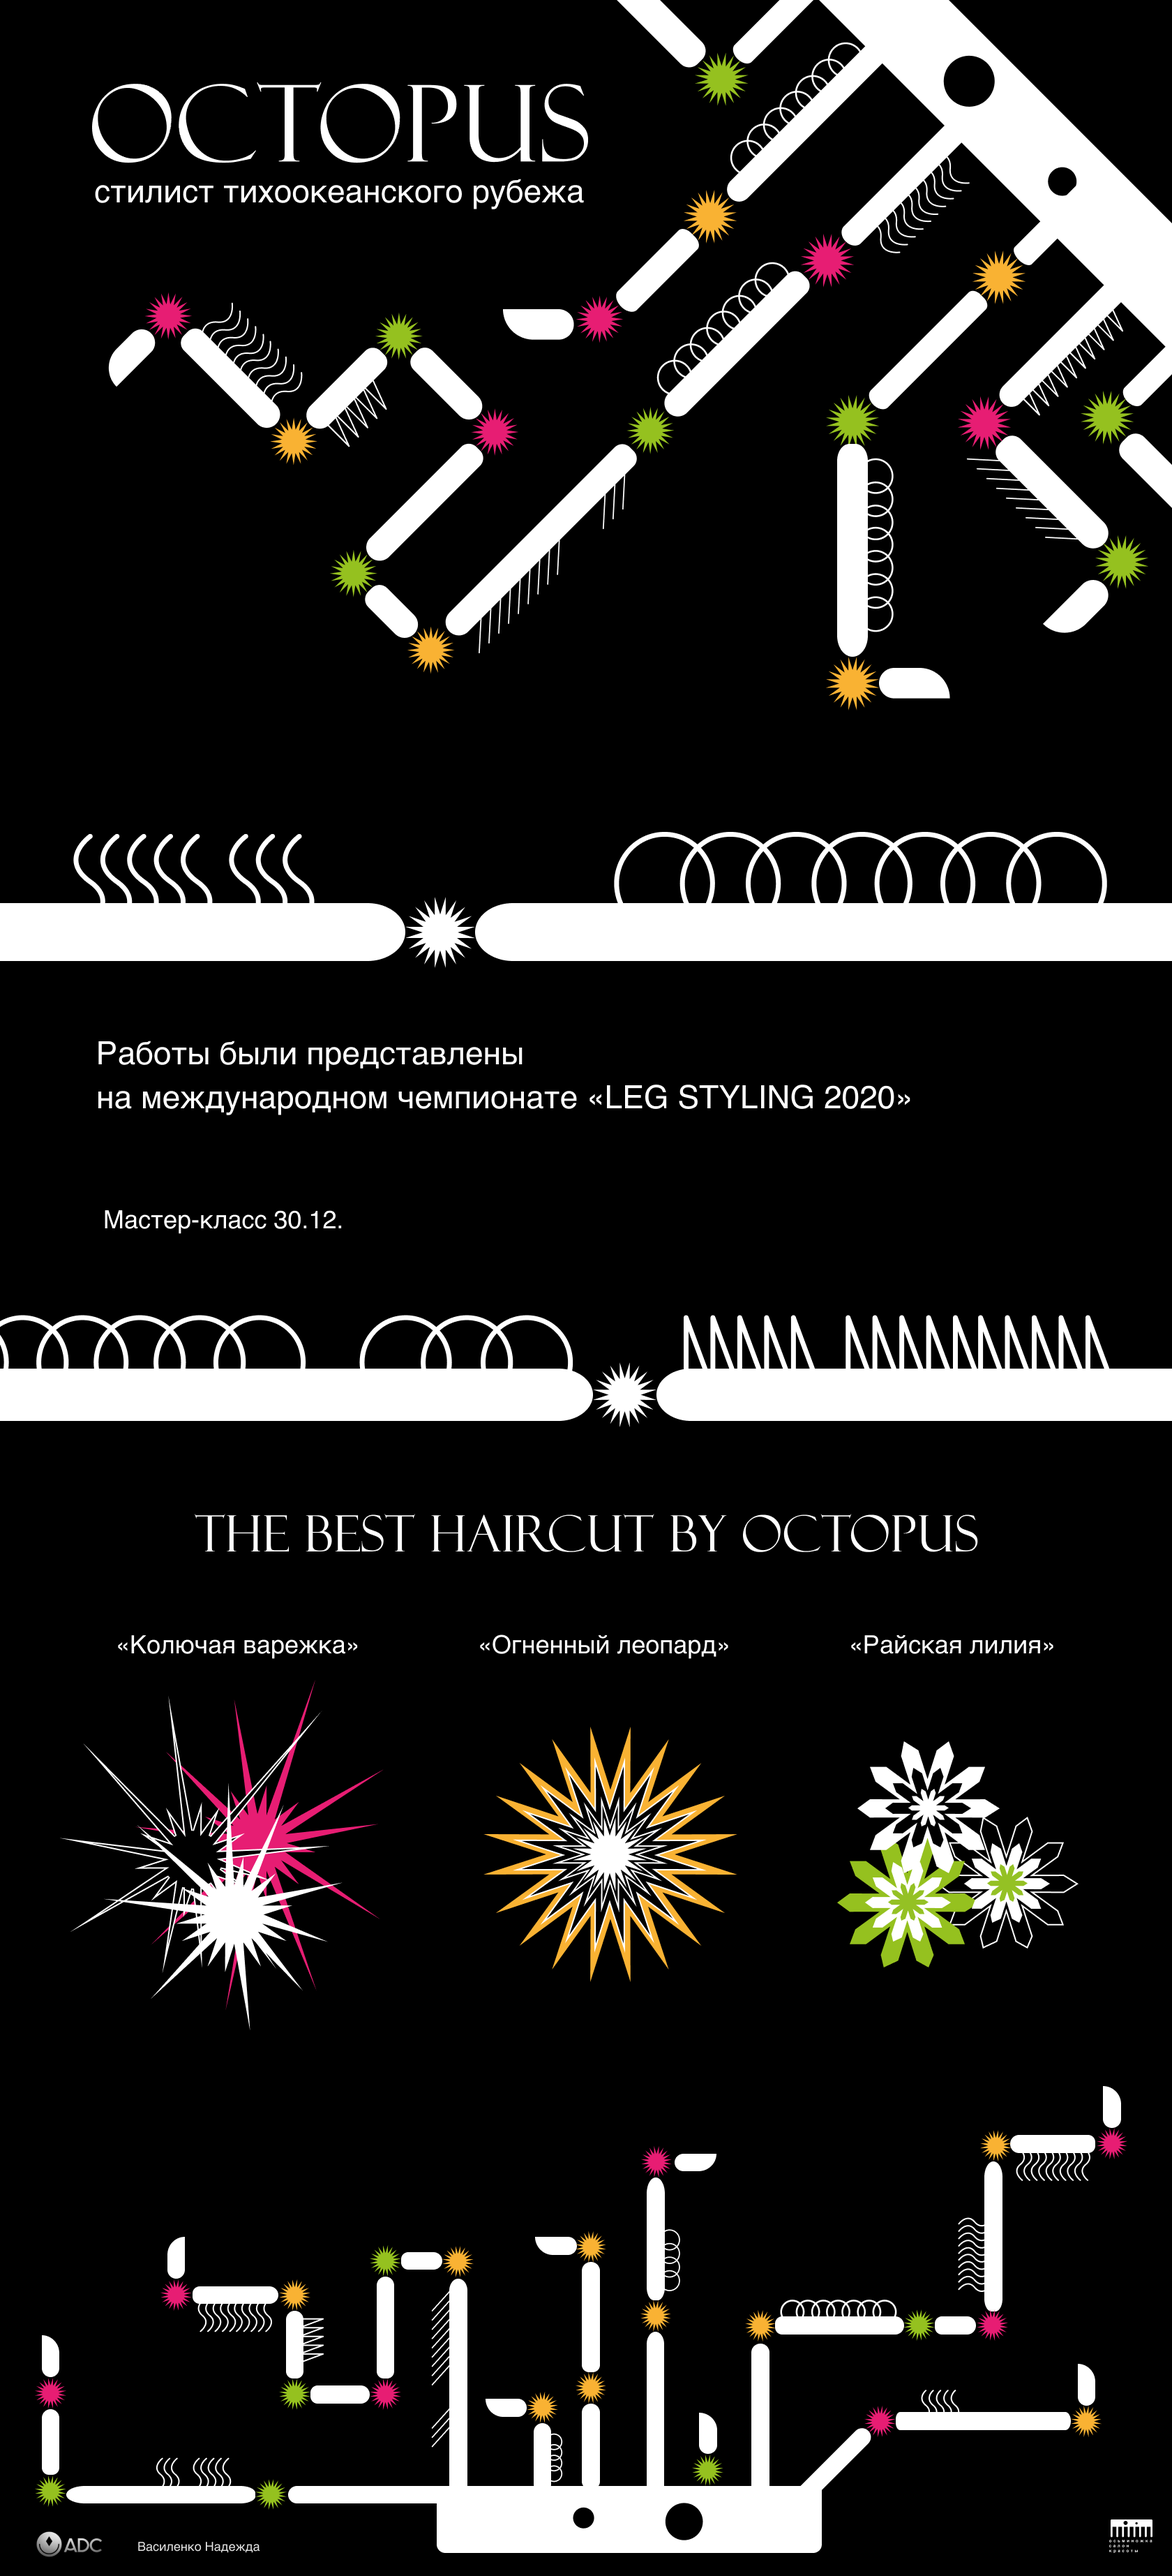
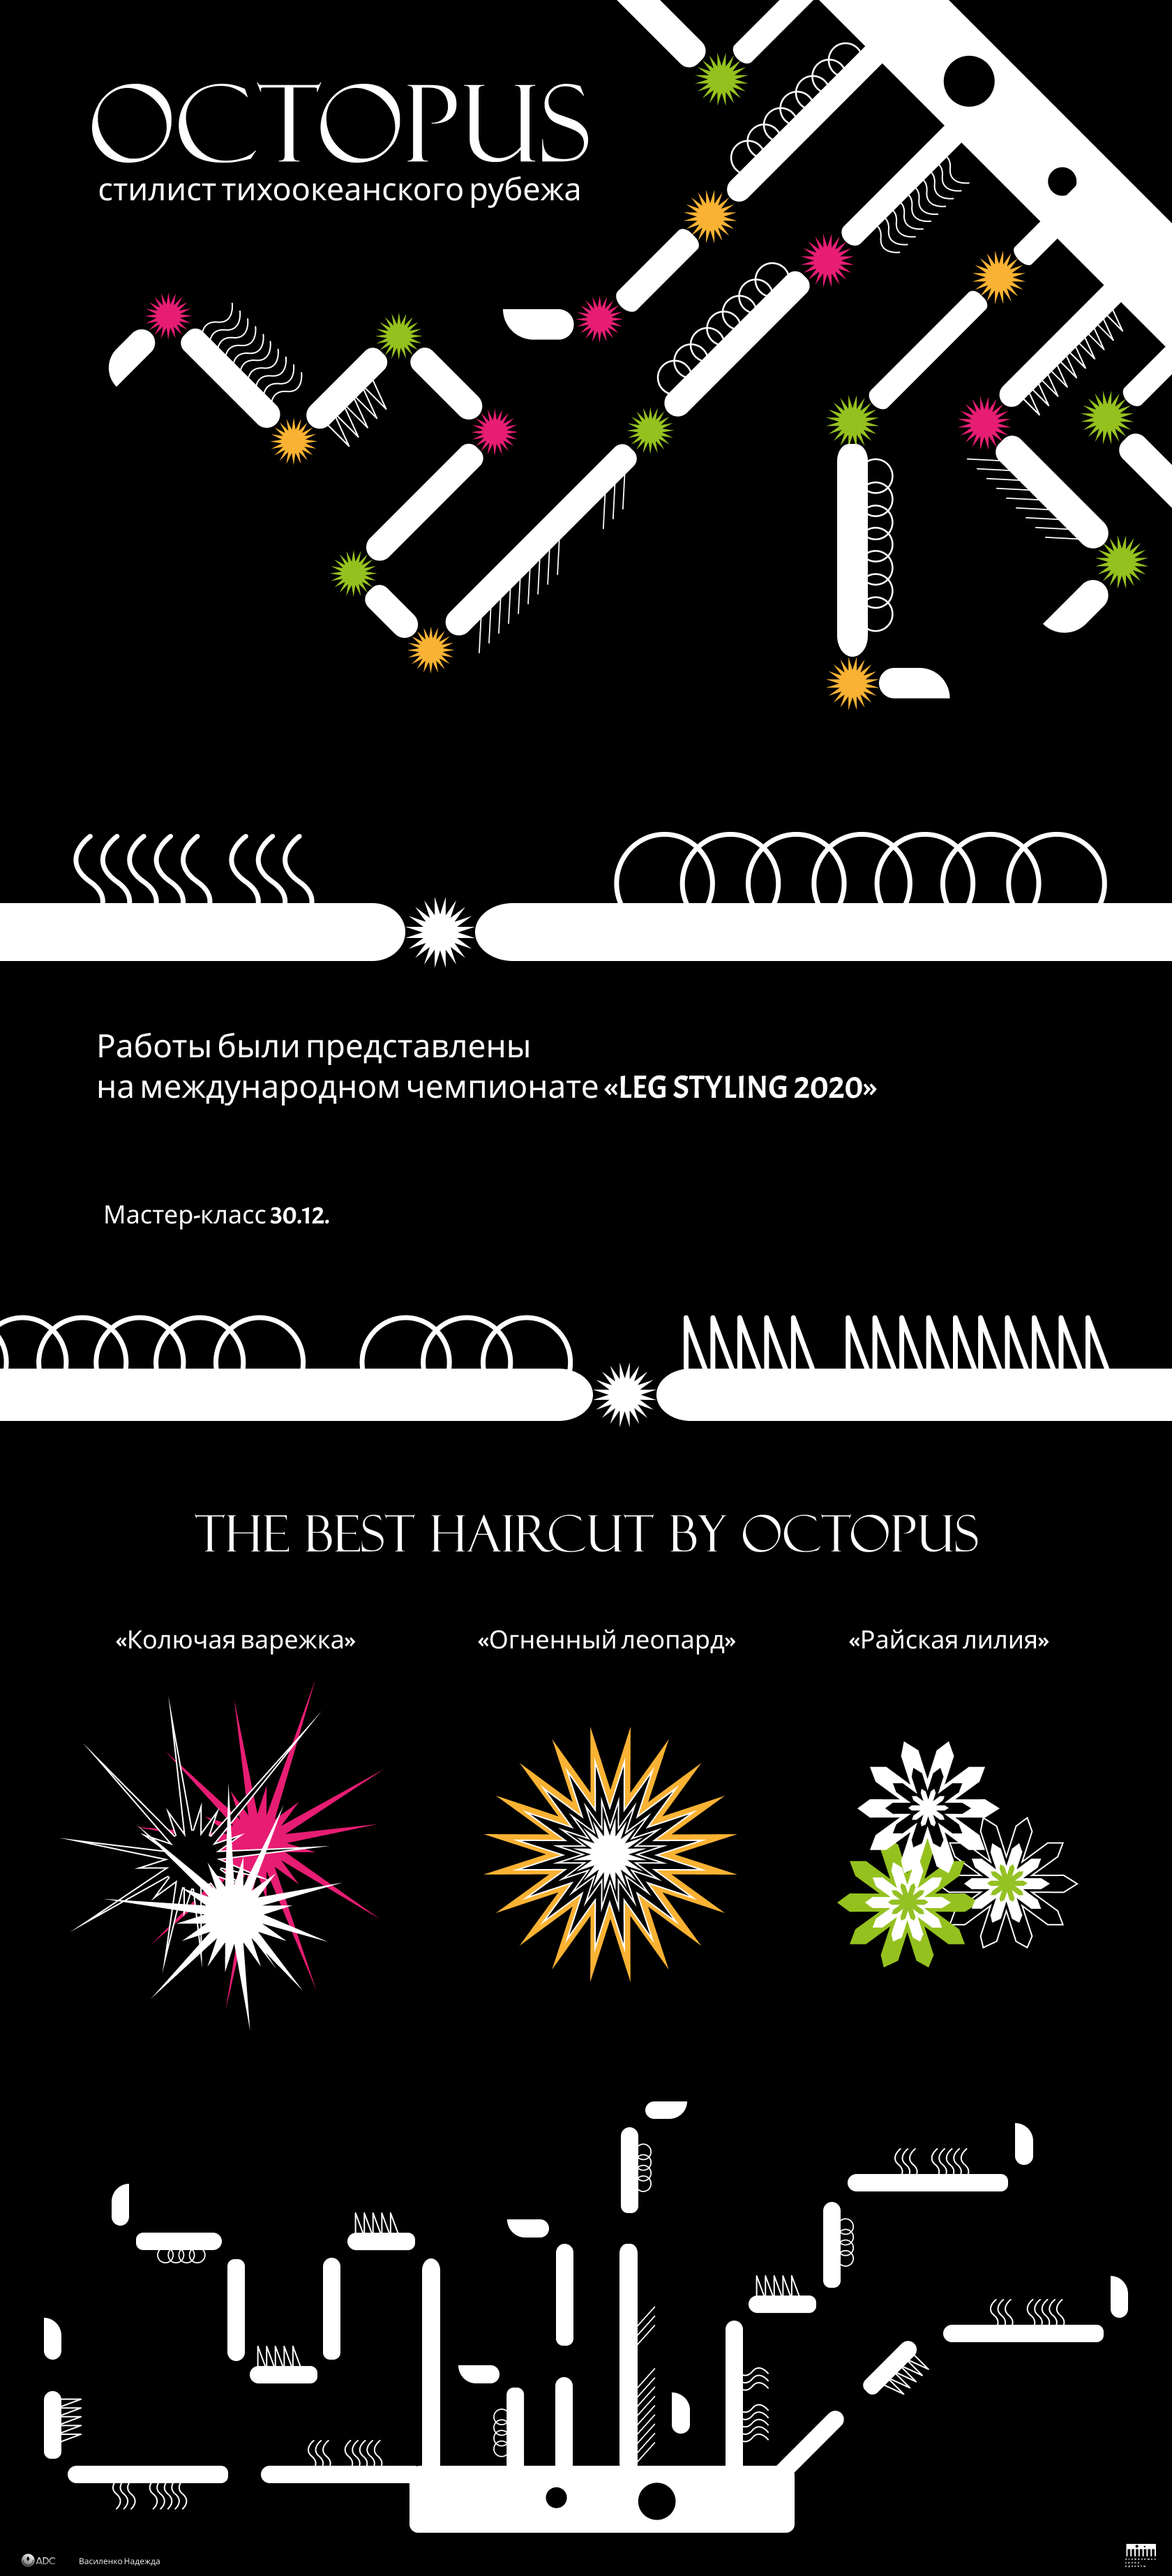
fluffs

diff --git a/index.html b/index.html
@@ -13,7 +13,7 @@
   position: absolute;
   left: 0;
   right: 0;
-  /* background: url('images/fon.png'); */
+  background: url('images/fon.png');
   height: 100%;
   width: 100%;
   display: block;
@@ -85,7 +85,31 @@
         <div class="boom3"></div>
       </div>
     </div>
-    <div class="secondoctopus">
+    <div class="block2">
+      <div class="secondoctopus">
+        <img class="fluf f f18" src="images/fluff1.svg" alt="">
+        <img class="fluf f f19" src="images/fluff1.svg" alt="">
+        <img class="fluf f f20" src="images/fluff1.svg" alt="">
+        <img class="fluf f f21" src="images/fluff1.svg" alt="">
+        <img class="fluf f f22" src="images/fluff1.svg" alt="">
+        <img class="fluf f f23" src="images/fluff1.svg" alt="">
+        <img class="fluf f f24" src="images/fluff1.svg" alt="">
+        <img class="fluf f f25" src="images/fluff1.svg" alt="">
+        <img class="fluf f f26" src="images/fluff1.svg" alt="">
+        <img class="fluf f f27" src="images/fluff1.svg" alt="">
+        <img class="fluf f f28" src="images/fluff1.svg" alt="">
+        <img class="fluf f f29" src="images/fluff1.svg" alt="">
+        <img class="fluf f f30" src="images/fluff1.svg" alt="">
+        <img class="fluf f f31" src="images/fluff1.svg" alt="">
+        <img class="fluf f f32" src="images/fluff1.svg" alt="">
+        <img class="fluf f f33" src="images/fluff1.svg" alt="">
+        <img class="fluf f f34" src="images/fluff1.svg" alt="">
+        <img class="fluf f f35" src="images/fluff1.svg" alt="">
+        <img class="fluf f f36" src="images/fluff1.svg" alt="">
+        <img class="fluf f f37" src="images/fluff1.svg" alt="">
+        <img class="fluf f f38" src="images/fluff1.svg" alt="">
+        <img class="fluf f f39" src="images/fluff1.svg" alt="">
+      </div>
 
     </div>
 

diff --git a/stylesheets/style.css b/stylesheets/style.css
@@ -78,6 +78,7 @@
   width: calc((100% * 76) / 1680);
   animation: hue 4s infinite linear;
 }
+
 .fluf:hover{  animation-play-state: paused;}
 
 .f1 {top: calc((100% * 80) / 1260);   left: calc((100% * 1000) / 1680);}
@@ -161,12 +162,40 @@
 }
 .boom1:hover{  animation-play-state: running;}
 
+                                                            /* второй октопус */
+.f{
+  height:  calc((100% * 45) / 1260);
+  width: calc((100% * 45) / 1680);
+}
+.f18{top: 3480px; left: 328px;}
+.f19{top: 3480px; left: 52px;}
+.f20{top: 3338px; left: 52px;}
+.f21{top: 3148px; left: 596px;}
+.f22{top: 3148px; left: 452px;}
+.f23{top: 3338px; left: 452px;}
+.f24{top: 3338px; left: 316px;}
+.f25{top: 3148px; left: 316px;}
+.f26{top: 3148px; left: 150px;}
+.f27{top: 3338px; left: 716px;}
+.f28{top: 3320px; left: 786px;}
+.f29{top: 3130px; left: 786px;}
+.f30{top: 3130px; left: 878px;}
+.f31{top: 2960px; left: 878px;}
+.f32{top: 3446px; left: 954px;}
+.f33{top: 3238px; left: 1030px;}
+.f34{top: 3238px; left: 1170px;}
+.f35{top: 3066px; left: 1170px;}
+.f36{top: 3066px; left: 1446px;}
+.f37{top: 3378px; left: 1202px;}
+.f38{top: 3280px; left: 1308px;}
+.f39{top: 3280px; left: 1580px;}
+
+                                                                          /*анимация*/
+
 @keyframes move {
     from {transform: translateX(100%);}
     to   {transform: translateX(  0%);}
-}                                                                                /*анимация*/
-
-
+  }
 @keyframes hue {
     /* green */
     0%    {filter: brightness(50%) sepia(1) hue-rotate(38deg)  saturate(295%)  brightness(110%);}
